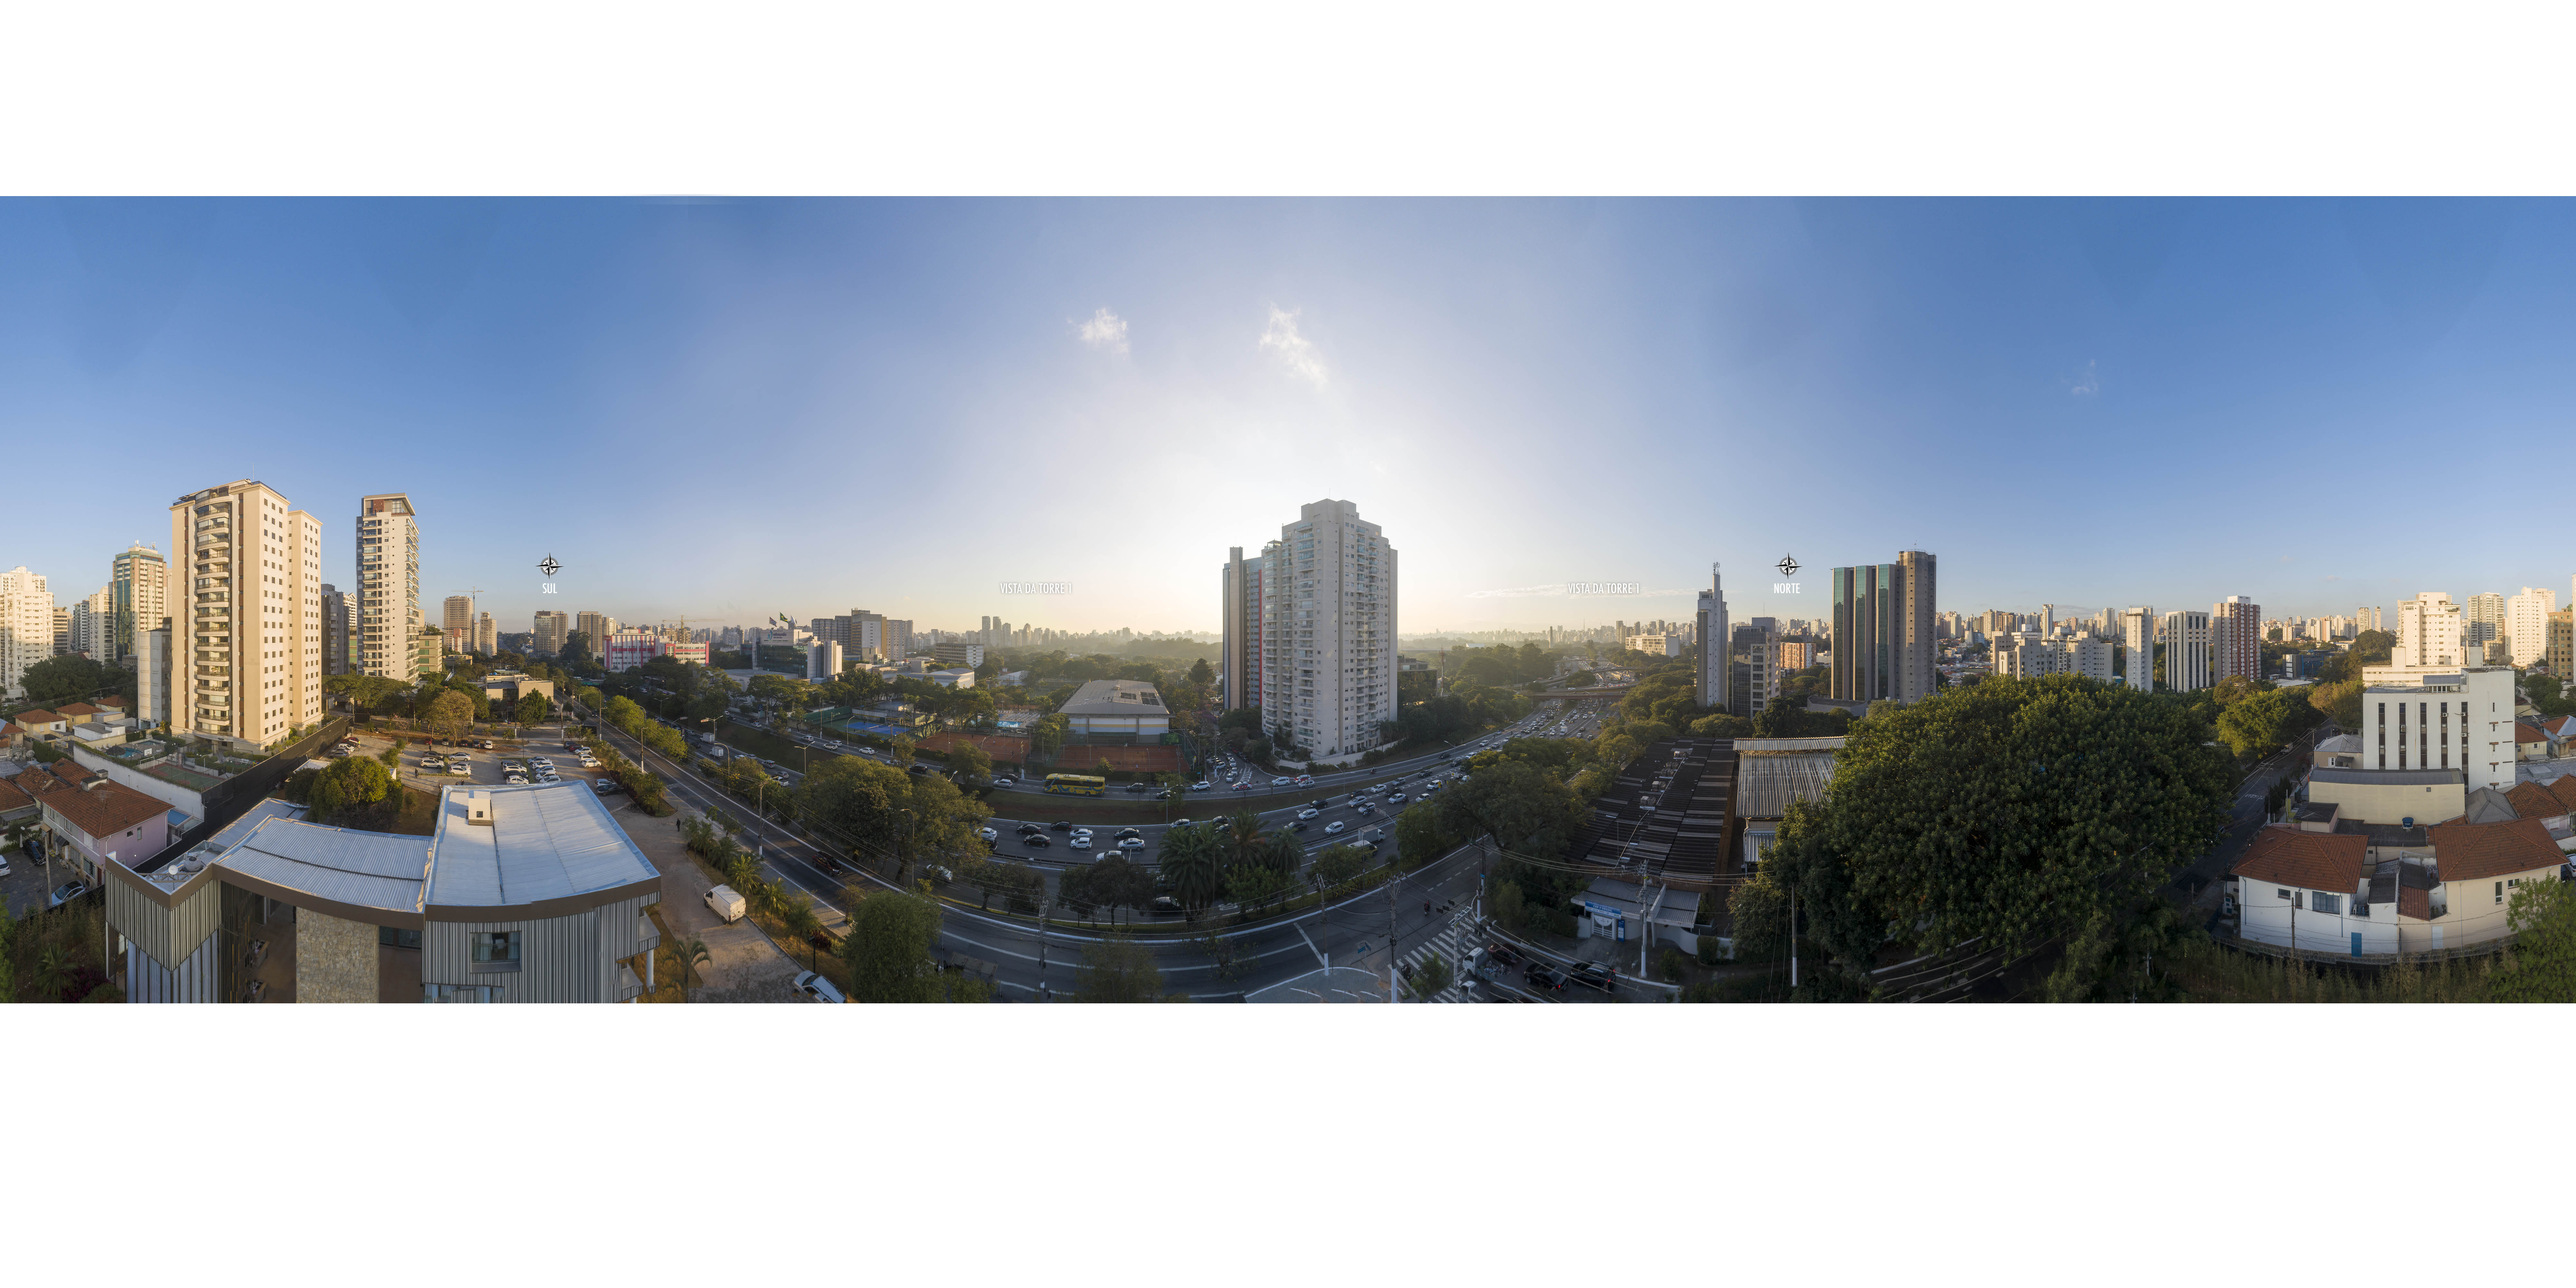
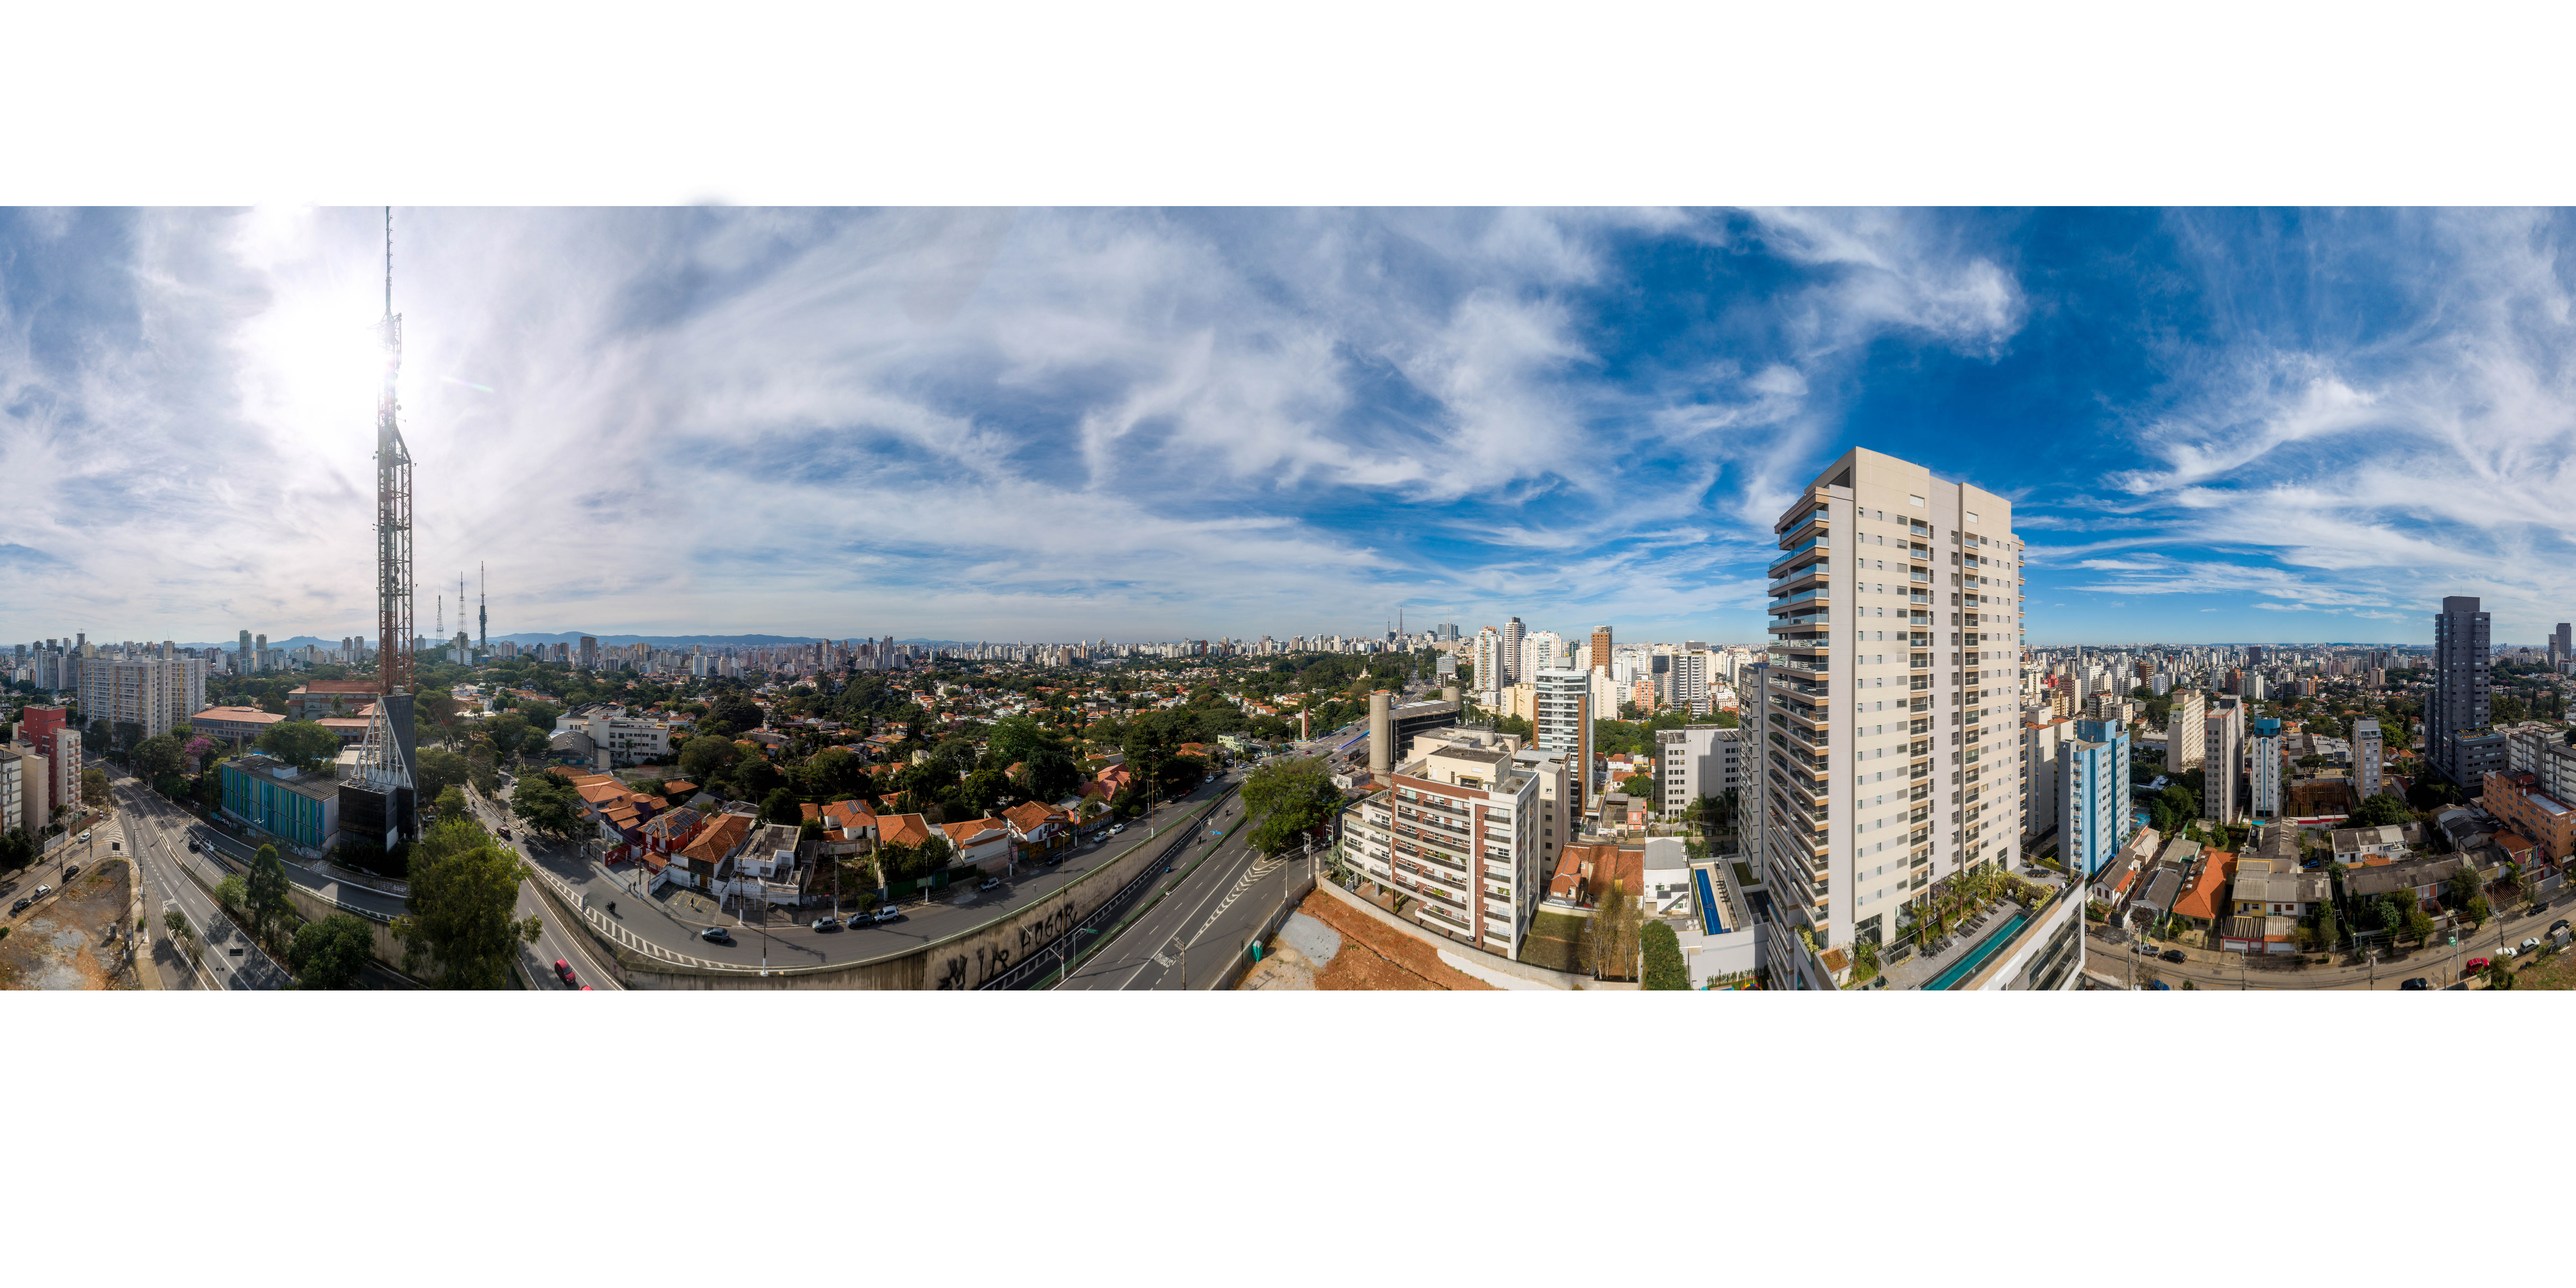
Initial files

diff --git a/index.html b/index.html
@@ -2,7 +2,7 @@
   <head>
     <meta charset="utf8" />
     <meta name="viewport" content="width=device-width, initial-scale=1">
-    <title>360 Viewer - Carandá Torre 1</title>
+    <title>360 Viewer - Oscar Freire</title>
     <link href="https://cdn.jsdelivr.net/npm/photo-sphere-viewer@3.5.1/dist/photo-sphere-viewer.min.css" rel="stylesheet">
     <script src="https://code.jquery.com/jquery-3.4.1.min.js" integrity="sha256-CSXorXvZcTkaix6Yvo6HppcZGetbYMGWSFlBw8HfCJo=" crossorigin="anonymous"></script>
     <style>
@@ -74,26 +74,42 @@
     <div id="viewer"></div>
     <div id="gallery">
       <div class="alignment">
-<!--         <button class="item" data-andar="1-andar" style='background-image: url(./img/thumbnails/thumb.jpg)'>
+
+        <button class="item active" data-andar="1-andar" style='background-image: url(./img/thumbnails/thumb.jpg)'>
           <div class="title" data-andar="1-andar">Térreo</div>
-        </button> -->
-        <button class="item active" data-andar="5-andar" style='background-image: url(./img/thumbnails/thumb.jpg)'>
-          <div class="title" data-andar="5-andar">5º andar</div>
+        </button>
+        <button class="item" data-andar="2-andar" style='background-image: url(./img/thumbnails/thumb.jpg)'>
+          <div class="title" data-andar="2-andar">2º andar</div>
+        </button>
+        <button class="item" data-andar="4-andar" style='background-image: url(./img/thumbnails/thumb.jpg)'>
+          <div class="title" data-andar="4-andar">4º andar</div>
+        </button>
+        <button class="item" data-andar="6-andar" style='background-image: url(./img/thumbnails/thumb.jpg)'>
+          <div class="title" data-andar="6-andar">6º andar</div>
+        </button>
+        <button class="item" data-andar="8-andar" style='background-image: url(./img/thumbnails/thumb.jpg)'>
+          <div class="title" data-andar="8-andar">8º andar</div>
         </button>
         <button class="item" data-andar="10-andar" style='background-image: url(./img/thumbnails/thumb.jpg)'>
           <div class="title" data-andar="10-andar">10º andar</div>
         </button>
-        <button class="item" data-andar="15-andar" style='background-image: url(./img/thumbnails/thumb.jpg)'>
-          <div class="title" data-andar="15-andar">15º andar</div>
+        <button class="item" data-andar="12-andar" style='background-image: url(./img/thumbnails/thumb.jpg)'>
+          <div class="title" data-andar="12-andar">12º andar</div>
         </button>
-        <button class="item" data-andar="20-andar" style='background-image: url(./img/thumbnails/thumb.jpg)'>
-          <div class="title" data-andar="20-andar">20º andar</div>
+        <button class="item" data-andar="14-andar" style='background-image: url(./img/thumbnails/thumb.jpg)'>
+          <div class="title" data-andar="14-andar">14º andar</div>
         </button>
-        <button class="item" data-andar="24-andar" style='background-image: url(./img/thumbnails/thumb.jpg)'>
-          <div class="title" data-andar="24-andar">24º andar</div>
+        <button class="item" data-andar="16-andar" style='background-image: url(./img/thumbnails/thumb.jpg)'>
+          <div class="title" data-andar="16-andar">16º andar</div>
+        </button>
+        <button class="item" data-andar="18-andar" style='background-image: url(./img/thumbnails/thumb.jpg)'>
+          <div class="title" data-andar="18-andar">18º andar</div>
+        </button>
+        <button class="item" data-andar="21-andar" style='background-image: url(./img/thumbnails/thumb.jpg)'>
+          <div class="title" data-andar="21-andar">21º andar</div>
         </button>
       </div>
     </div>
-    <script src="./bundle.js?aaa22"></script>
+    <script src="./bundle.js?bbcy11"></script>
   </body>
 </html>
